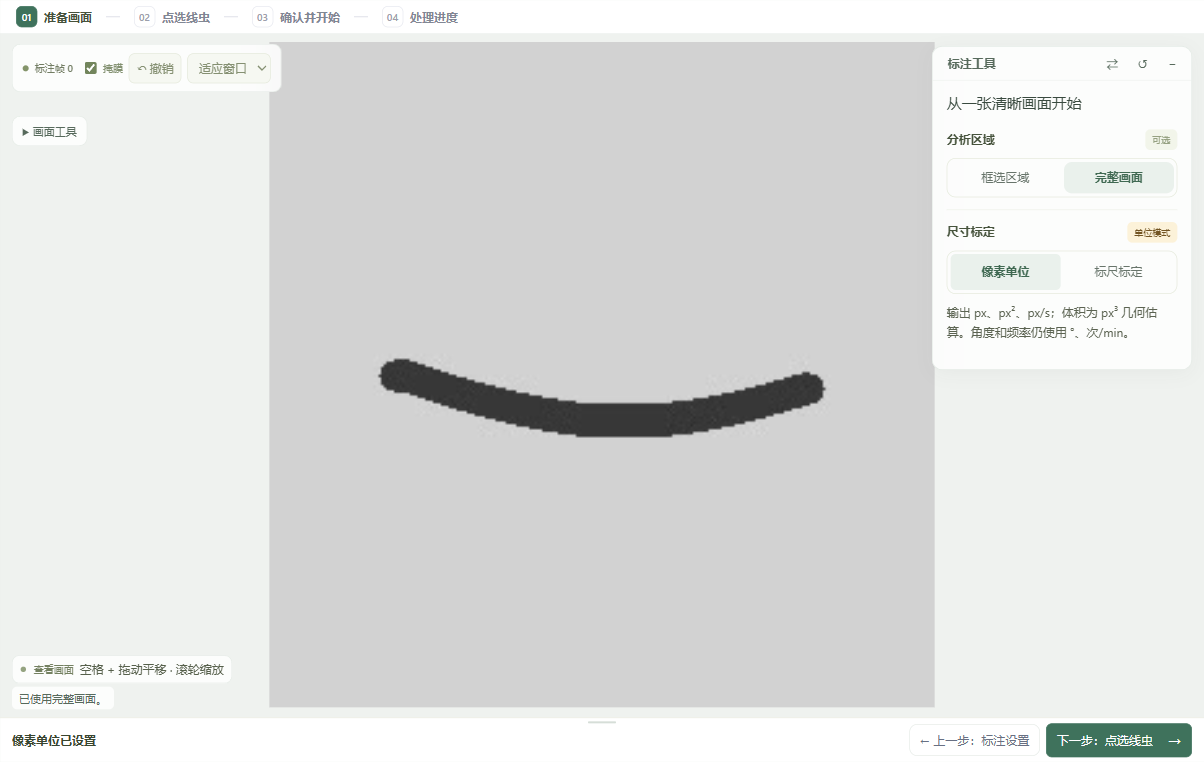
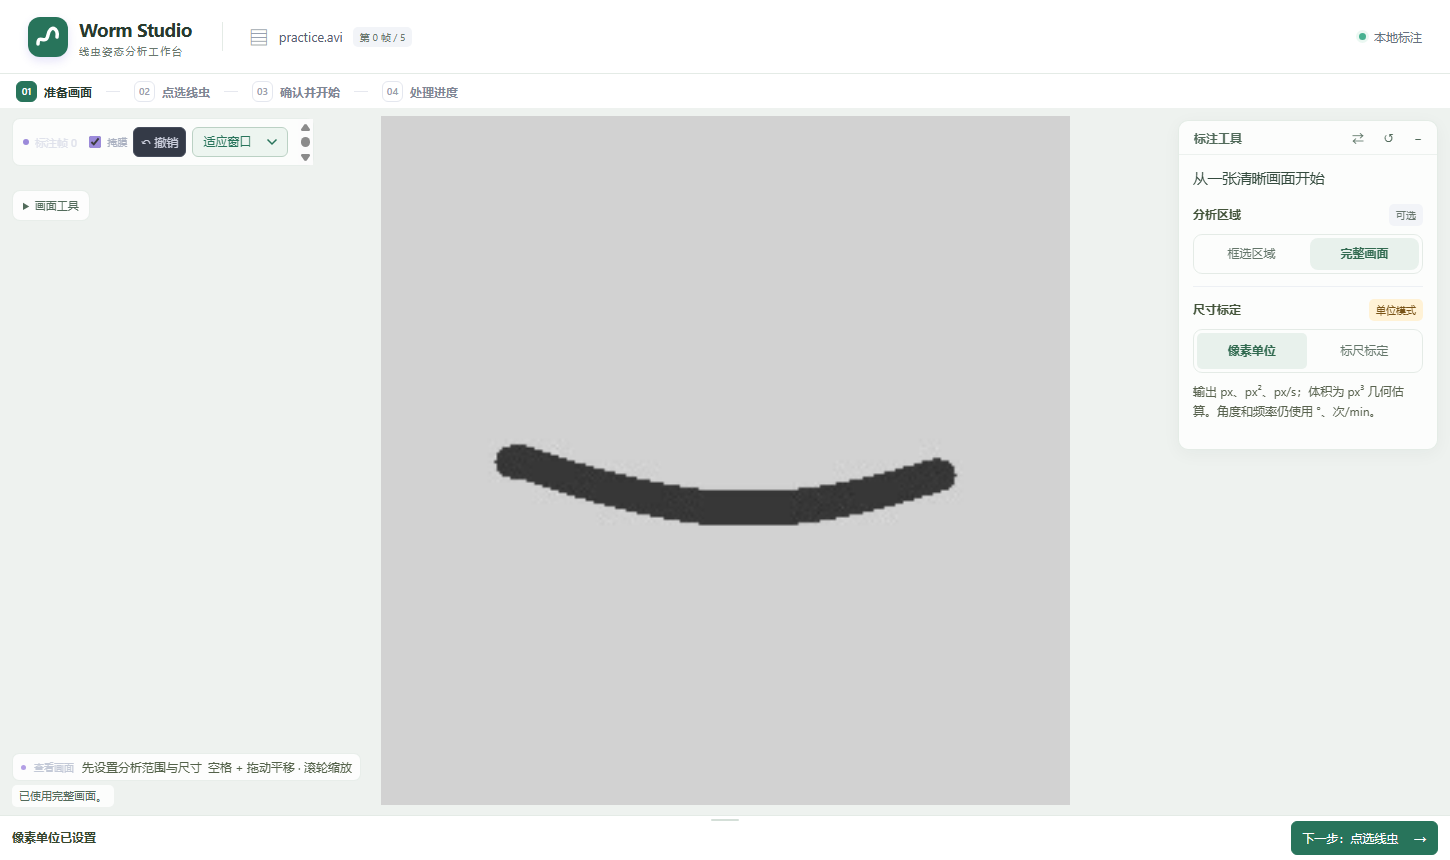
Refresh the README screenshots with the 1.1.15 interface and outputs

diff --git a/README.md b/README.md
@@ -22,9 +22,9 @@
 
 在视频的一帧里点选虫体，WormStudio 会跟踪它在整段视频中的位置与姿态。你可以回看叠加了轮廓和中线的标注视频，也可以导出逐帧数据，在 Excel 中比较体长、体宽和运动速度。
 
-![23 号槽线虫的实际回放，绿色轮廓和白色中线沿着虫体，右侧显示当前帧的体长、面积和速度](docs/screenshots/result-playback.png)
+![23 号槽第 5 帧的回放。蓝色和橙色轨迹分别标出头端和尾端的移动，右侧列出体长、面积、质心速度和头部弯曲角](docs/screenshots/result-playback.png)
 
-图中是实验视频 `222324.mp4` 的 **23 号槽**。在 **查看分析视频** 中点 **跟随虫体** 可放大观察，点 **完整画面** 可回看整个芯片。拖动下方帧条，右侧读数会同步更新。图中第 5 帧（0.417 秒）的体长为 **668.35 px**，面积为 **19,870 px²**。本次示例使用像素单位。
+图中是用 v1.1.15 打开的实验视频 `222324.mp4` **23 号槽**的已保存结果。点 **跟随虫体** 放大观察，再点 **头尾轨迹** 可查看最近一秒的移动路径。拖动下方帧条，右侧读数会同步更新。这段视频使用标尺标定，第 5 帧（0.417 秒）的体长为 **630.29 μm**，面积为 **17,890.49 μm²**。
 
 ## 下载与启动
 
@@ -48,7 +48,7 @@ Windows 首次需要联网下载组件：CPU 约 **1.12 GiB**，NVIDIA GPU 约 *
 
 3. **点选并确认虫体。** 在深色虫体内部点一下，等待轮廓出现。如果漏掉一段，在那一段内部补点。如果圈入了背景，选 **排除提示** 并点击误选的位置。轮廓贴合后，点击底部 **确认虫体**。练习视频可以跳过头端标记。
 
-   ![在虫体中央点选后，绿色覆盖范围显示已识别的虫体，右下角可确认虫体](docs/screenshots/confirm-contour.png)
+   ![练习视频使用原图分割。点选虫体后，绿色区域显示当前候选轮廓，右侧可切换候选，右下角可确认虫体](docs/screenshots/confirm-contour.png)
 
 4. **开始分析。** 点击 **下一步：确认并开始**，核对后点 **保存并开始处理**。在 **进度** 页查看跟踪、姿态分析和导出的进展。
 5. **回看结果。** 处理完成后打开 **结果 → 查看分析视频**，点击播放或逐帧查看。核对虫体轮廓和中线后，可在同一页导出需要的文件。
@@ -73,7 +73,7 @@ Windows 首次需要联网下载组件：CPU 约 **1.12 GiB**，NVIDIA GPU 约 *
 
 打开 **结果** 可查看整段视频的汇总。用 v1.1.15 的发布包运行随附练习视频，CPU 和 NVIDIA 两次验证均得到 **5/5 帧有效姿态**，平均体宽约 **12.8 px**。点击右上角的 **其他文件** 可导出视频、表格或统计图。
 
-![结果页列出有效姿态帧数、中位体长、平均体宽和平均运动速度，右上角有其他文件入口](docs/screenshots/result-summary.png)
+![练习视频结果页显示 5/5 帧有效姿态，中位体长 174 px，平均体宽 12.8 px。查看分析视频位于指标变化上方](docs/screenshots/result-summary.png)
 
 | 想做什么 | 选择哪一项 |
 | --- | --- |
